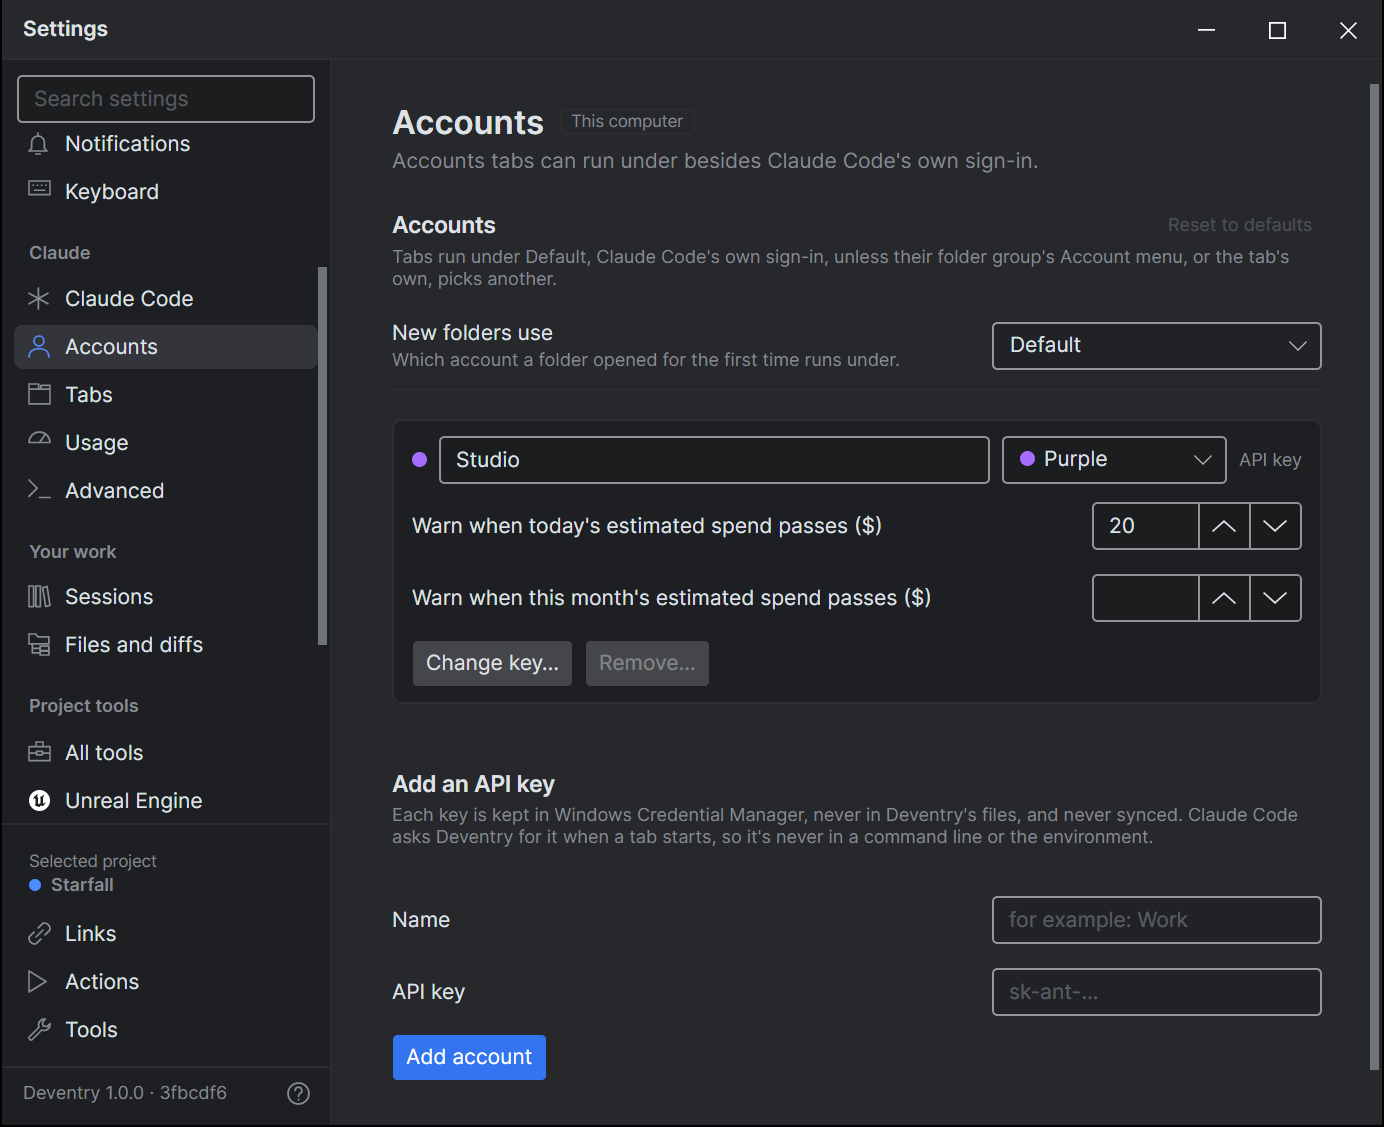
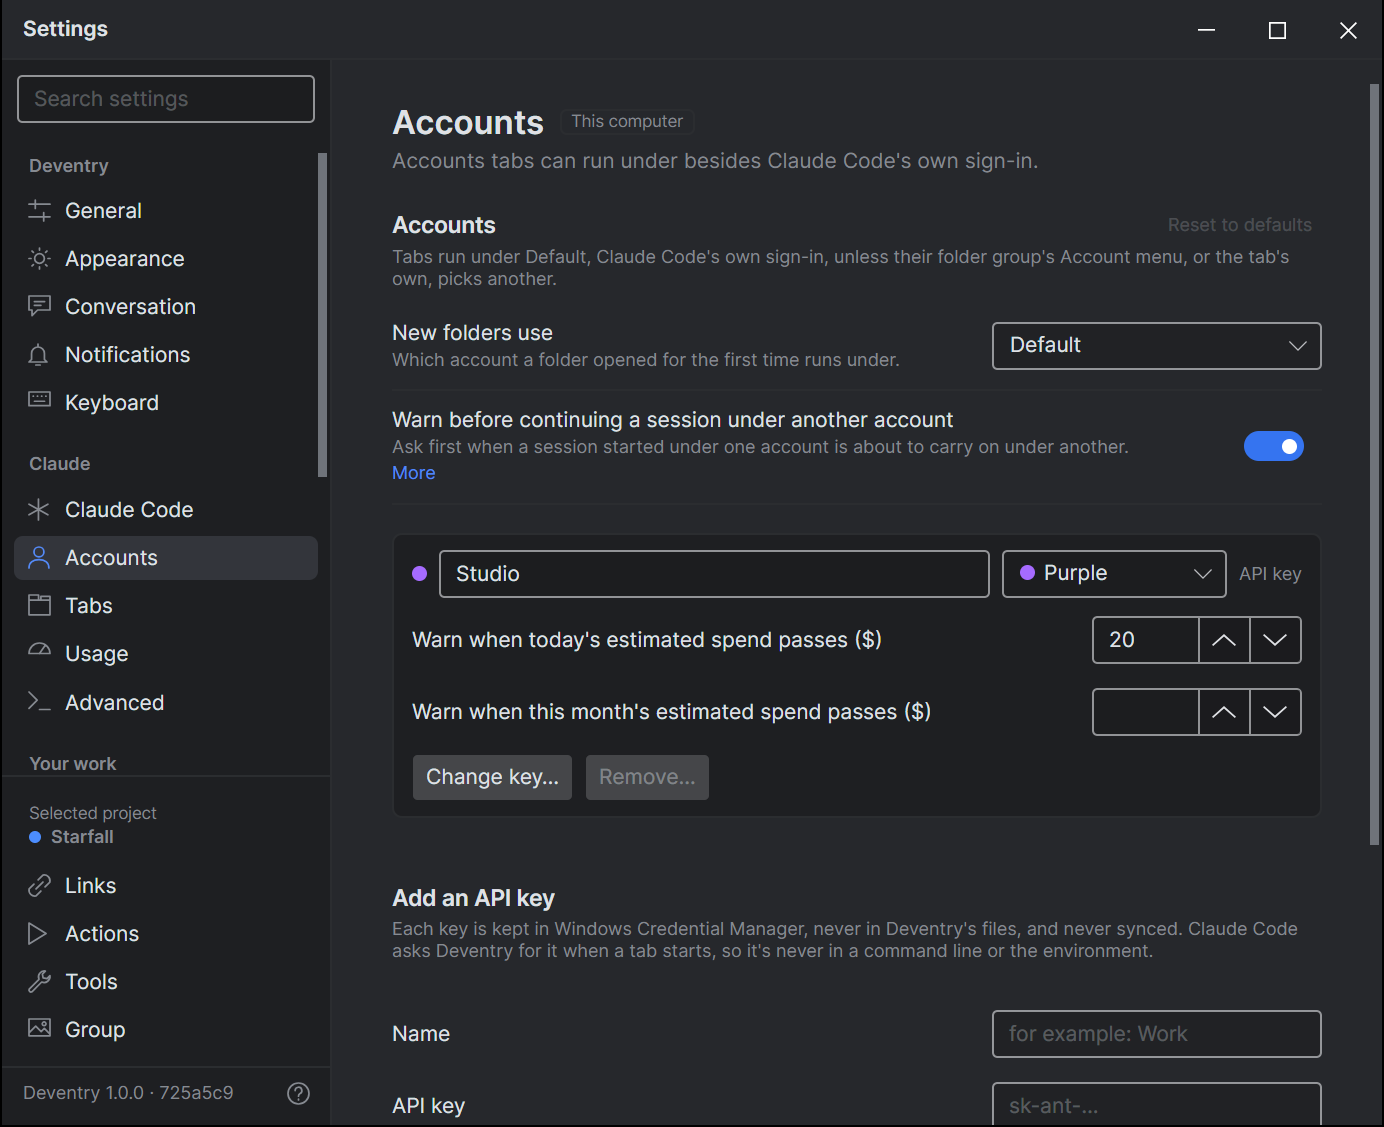
The guide describes the question about continuing under another account
Moving a tab to another account has a section on the card and its setting, the guide's map names it and the
Claude app's rules, the changelog entry links to it, and Settings → Accounts' picture has the new switch.

diff --git a/CHANGELOG.md b/CHANGELOG.md
@@ -30,7 +30,7 @@ The format follows [Keep a Changelog](https://keepachangelog.com/en/1.1.0/), and
 
 ### Added
 
-- **A warning before a session moves to another account.** Resuming a conversation under a different account than the one it started under now asks first, since that account's organization would see the whole earlier conversation: continue, go back to the original account, start a new chat, or start a new chat with a short digest you can edit before sending. Settings → Accounts can turn it off.
+- **A warning before a session moves to another account.** Resuming a conversation under a different account than the one it started under now asks first, since that account's organization would see the whole earlier conversation: continue, go back to the original account, start a new chat, or start a new chat with a short digest you can edit before sending. Settings → Accounts can turn it off. See [Moving a tab to another account](https://claudette.dotbunny.com/accounts/moving-a-tab-to-another-account/#a-conversation-started-under-another-account).
 - **Deventry remembers what your organization turned off.** When your organization has turned Remote Control off for your account, Deventry now accepts it: no tab tries to connect on later launches, so the same yellow warning doesn't come back, and the tab's switch says it's your organization's rule for that account, since when. Settings → Accounts → **What an organization has turned off** lists these rules, each with **Remove** for when something changes. Another account is not affected. See [The Claude app](https://claudette.dotbunny.com/away/the-claude-app/#who-cant-use-it).
 - **Try Claudette without an account.** **Try the demo**, on the sign-in screen and on the screen that offers to install Claude Code, opens Claudette in a window of its own on made-up game projects, with a stand-in for Claude that answers offline. Its tabs, History, the usage header and an API-key account are there to look around, and a message gets an example turn: thinking, a file it asks your permission to write, or a question. Nothing in it reaches Claude or your account, and **Leave demo** closes it, taking what it made with it. See [Trying the demo](https://claudette.dotbunny.com/getting-started/trying-the-demo/).
 - **Open a file in a window of its own.** In a Files tab, right-click a file's tab and choose **Open in a window**, click the window button at the right of the tabs' row, or drag the tab out of Claudette's window, and the file opens in a window you can put on another screen or beside Claudette, with its unsaved edits, Claude's changes and the Files tab's keys. Its tab stays in the row, marked, and clicking it brings the window forward, as does opening the file from the conversation. **Put back**, in the window's toolbar or on the tab's menu, or closing the window, returns the file to its tab. The next time Claudette starts, the file is back in its tab. See [File tabs](https://claudette.dotbunny.com/project-files/file-tabs/#in-a-window-of-its-own).

diff --git a/GUIDE.md b/GUIDE.md
@@ -224,7 +224,7 @@ One page, out of the sidebar and linked from both footers and the privacy chapte
 | Your Claude sign-in | The **Default** account, the header's account menu, **Plan and billing** or **Console billing**, **Sign out…** and what it stops. | [§11](DESIGN.md#11-sign-in), [Accounts](DESIGN.md#accounts) |
 | API-key accounts | Settings → Accounts: **Add an API key**, where the key is kept, **Change key…**, **Remove…**; on Linux, `secret-tool`. | [Accounts](DESIGN.md#accounts) |
 | A folder's account | A group's **Account ▸**, **New folders use**, the account tags. | [Accounts](DESIGN.md#accounts) |
-| Moving a tab to another account | A tab's **Account ▸**, and what moving it costs. | [Accounts](DESIGN.md#accounts) |
+| Moving a tab to another account | A tab's **Account ▸**, what moving it costs, and the question when a conversation would carry on under another account than it began under (**Continue here**, **New chat with a digest**, **Warn before continuing a session under another account**). | [Accounts](DESIGN.md#accounts), [Continuing under another account](DESIGN.md#continuing-under-another-account) |
 | Spend and its warnings | The header's spend, the warnings, the Usage window's **Accounts**, and what an API-key account doesn't have (plan meters, the Claude app). | [Accounts](DESIGN.md#accounts) |
 
 ### History and syncing (`history/`)
@@ -255,7 +255,7 @@ One page, out of the sidebar and linked from both footers and the privacy chapte
 |---|---|---|
 | Notifications | Each kind and its switch, what they say, when they're skipped, where a click goes. | [§10](DESIGN.md#10-notifications) |
 | The Dock and taskbar icon | The badge, the icon's animation, the taskbar's flash. | [§10](DESIGN.md#10-notifications) |
-| The Claude app | **Connect to the Claude app**, **Open in the Claude app**, the phone icon, pushes to your phone, who can't use it. | [Remote Control](DESIGN.md#remote-control-the-claude-app) |
+| The Claude app | **Connect to the Claude app**, **Open in the Claude app**, the phone icon, pushes to your phone, who can't use it, and what an organization has turned off (Settings → Accounts). | [Remote Control](DESIGN.md#remote-control-the-claude-app) |
 | Keeping the computer awake | Settings → General, the header's cup, when it holds off sleep. | [Keeping the computer awake](DESIGN.md#keeping-the-computer-awake) |
 | Starting at login | **Start Deventry when I log in**, which copy starts, when the switch is turned off elsewhere. | [Starting at login](DESIGN.md#starting-at-login) |
 

diff --git a/docs/accounts/moving-a-tab-to-another-account.md b/docs/accounts/moving-a-tab-to-another-account.md
@@ -34,6 +34,24 @@ The tab's [Cache chip](../usage/the-prompt-cache.md) forgets its timer until the
 
 Do the same and choose **Default**, or the other account. Each move reads the conversation once.
 
+## A conversation started under another account
+
+{% include unreleased.html %}
+
+Deventry remembers which account each conversation began under. If one would carry on under another, say because its folder now uses another account, you're signed in to Claude with another email, or you opened it from History in a tab on another account, Deventry sends nothing at first. The composer asks **Continue under another account?**, saying which account the conversation began under and which it would continue under: the whole earlier conversation goes to that account, and its organization can see it.
+
+- **Continue here** carries on under the new account. The tab doesn't ask again about that conversation and account.
+- **Use Studio instead** moves the tab back to the account the conversation began under. It's there when that's one of your accounts in Deventry, such as Default or an API key, rather than another Claude sign-in.
+- **New chat** starts a new conversation in the tab, with nothing of the earlier one. The earlier one stays in [History](../history/history.md).
+- **New chat with a digest** does the same, and puts a short digest of the earlier conversation in the composer: your prompts and Claude's answers, without tool calls or thinking. Trim it as you like; nothing of it goes until you send it.
+- **Cancel** leaves the tab as it was, without starting Claude Code. A message you sent while it asked is back in the composer.
+
+Moving a tab with **Account ▸** has asked already, so it doesn't ask again. Deventry only knows the conversations it saw begin on this computer: one begun in a terminal, on another computer, or before this version doesn't ask.
+
+## Settings
+
+Settings → Accounts → **Warn before continuing a session under another account**, on by default, asks before a conversation carries on under another account.
+
 ## See also
 
 - [A folder's account](a-folders-account.md) for choosing the account new tabs use.

diff --git a/docs/accounts/api-key-accounts.md b/docs/accounts/api-key-accounts.md
@@ -9,7 +9,7 @@ summary: "An API-key account lets a tab run Claude Code on an API key instead of
 
 An API-key account lets a tab run Claude Code on an API key instead of your Claude sign-in. It suits a work key beside a personal plan. API keys are the only kind of account you can add besides Default.
 
-{% include shot.html name="guide/accounts/settings-accounts" alt="Settings → Accounts with an account named Studio: its name and tag color, its two spend warnings, Change key and Remove, and the form for adding another key" %}
+{% include shot.html name="guide/accounts/settings-accounts" alt="Settings → Accounts with New folders use, the switch for warning before a session continues under another account, an account named Studio with its name and tag color, its two spend warnings, Change key and Remove, and the form for adding another key" %}
 
 ## Adding an account
 
